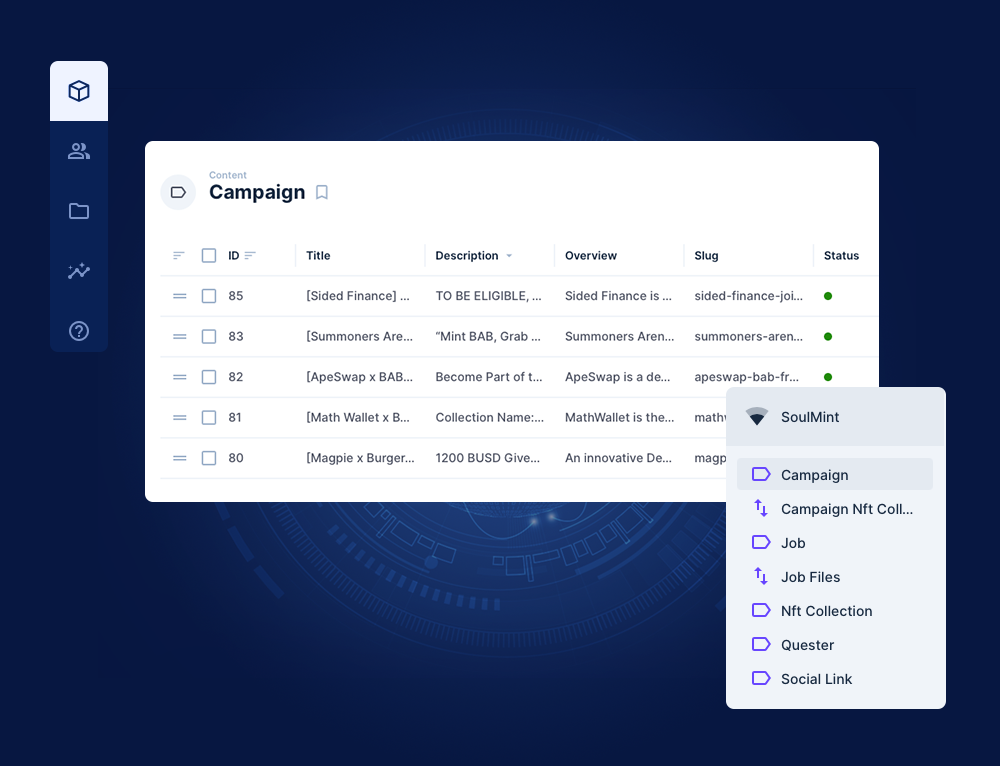
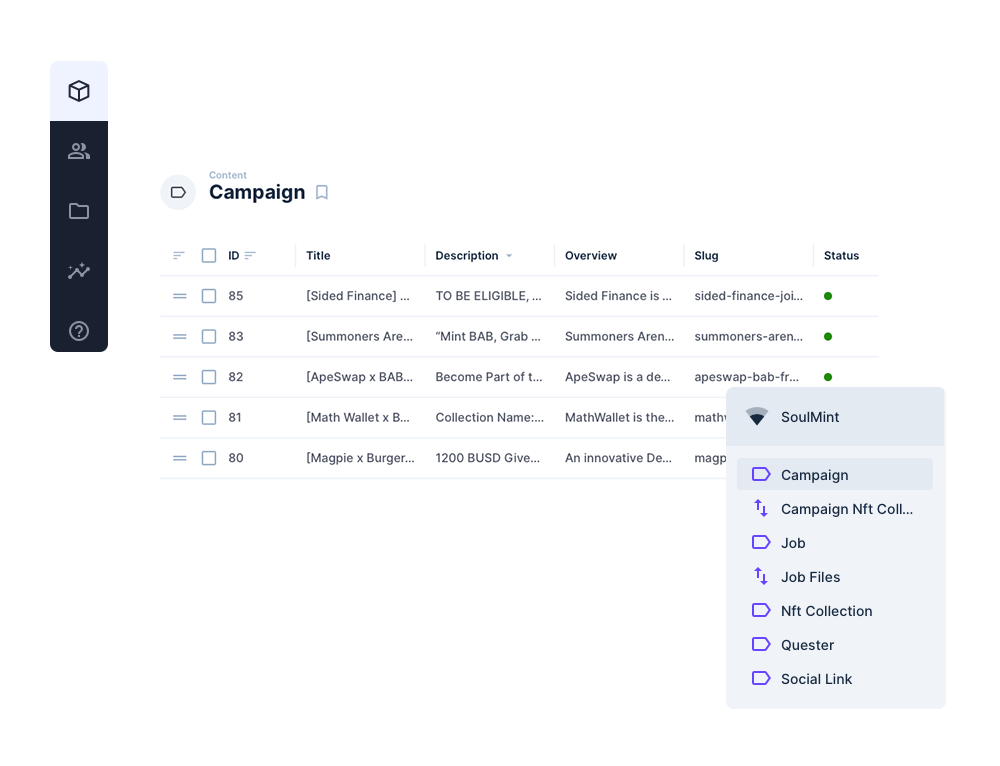
Add hero background
Add hero background

diff --git a/src/components/organisms/HomePage/Hero/hero.module.css b/src/components/organisms/HomePage/Hero/hero.module.css
@@ -1,2 +1,3 @@
-.heroMask {  
+.root {
+  @apply bg-[url('/hero/hero-bg-2.jpg')] bg-no-repeat bg-cover;
 }
